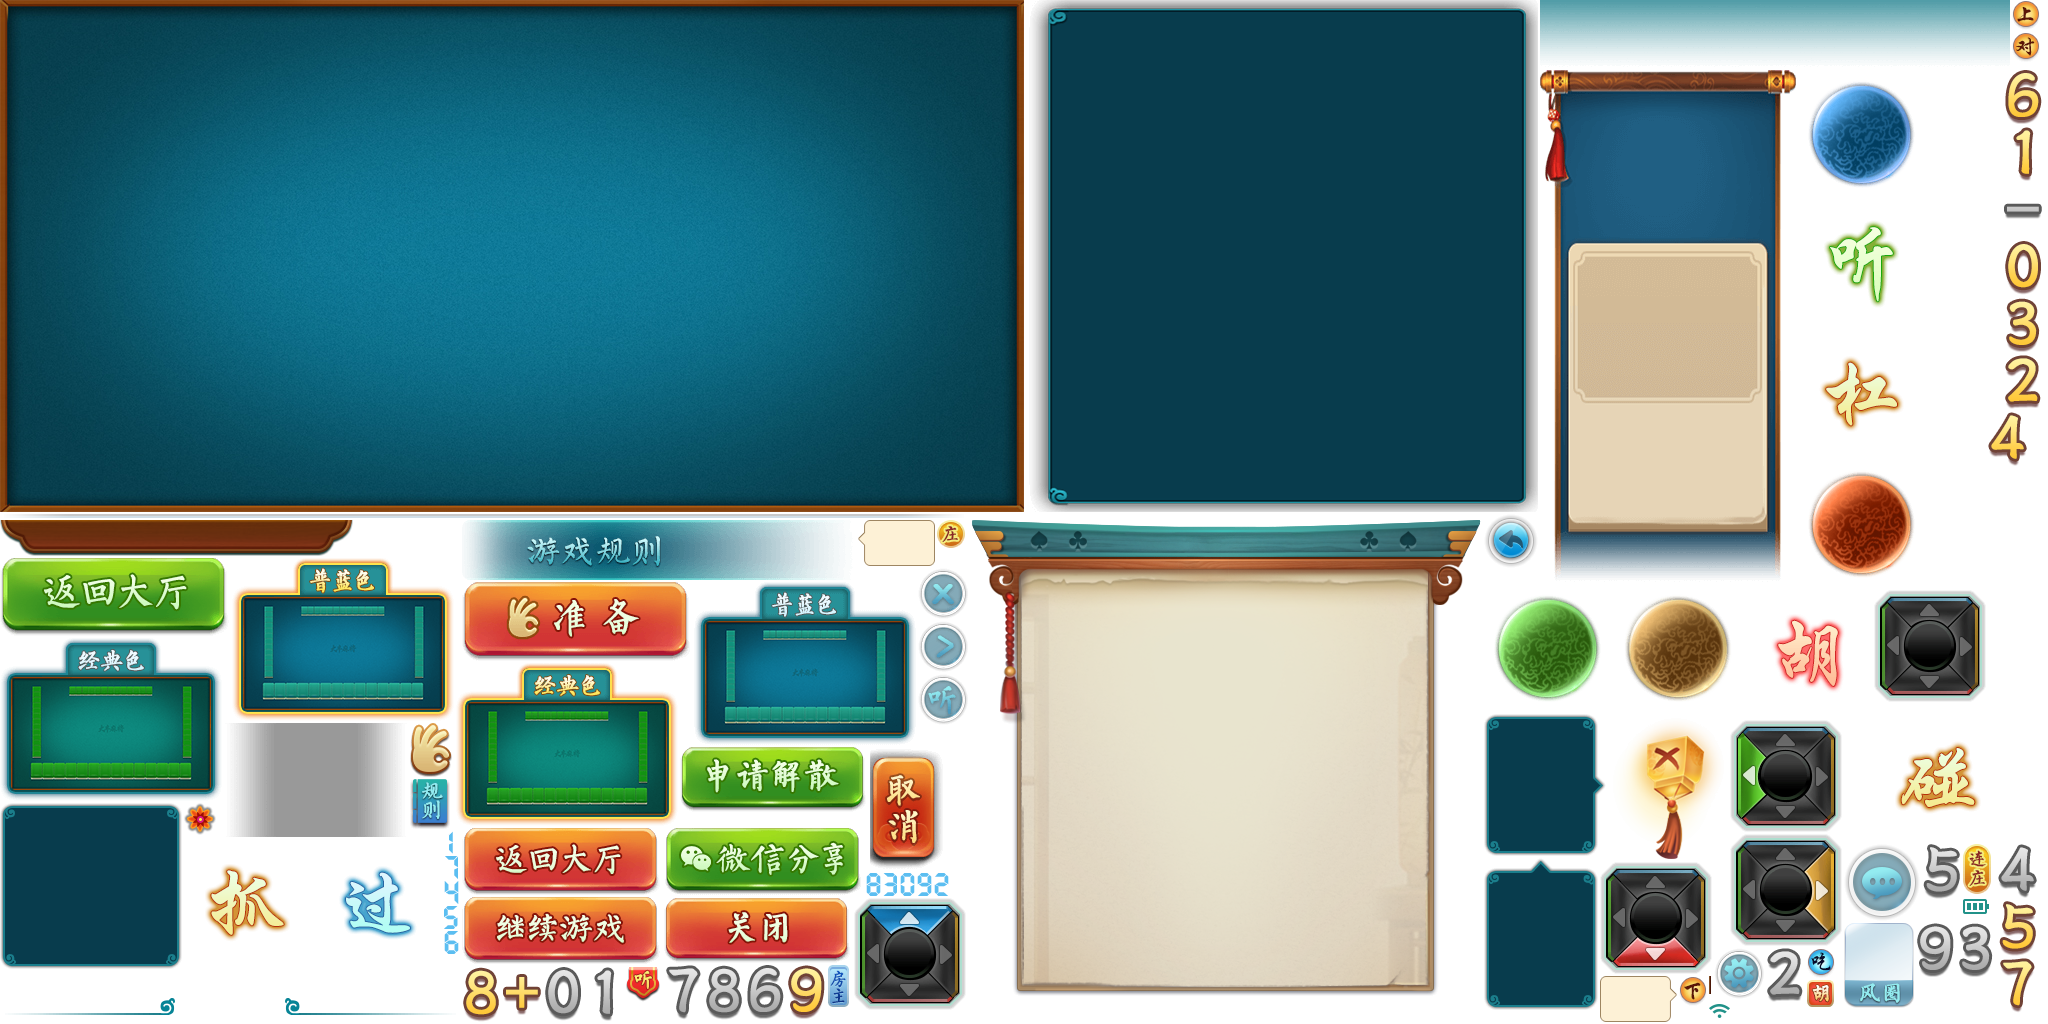
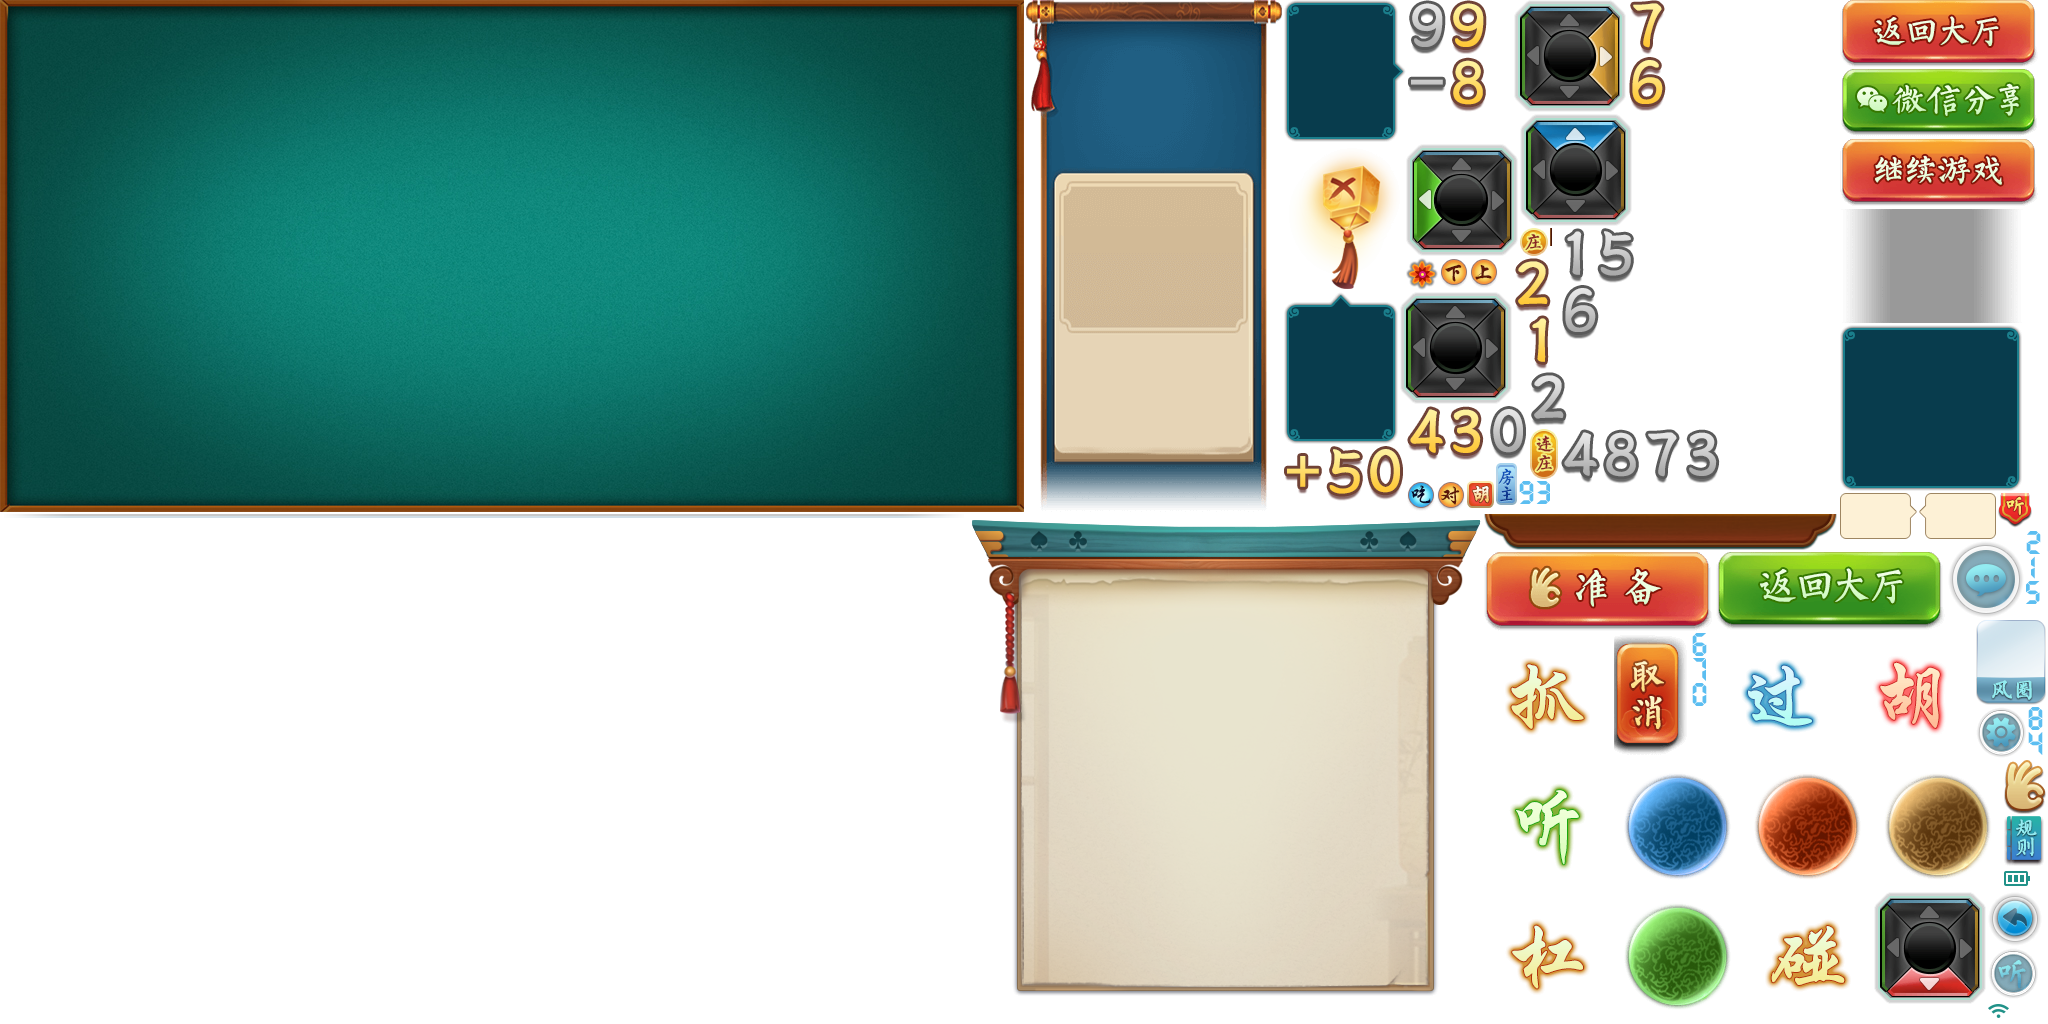
设置界面  搬到大厅

diff --git a/assets/Script/modules/gamea/RoomViewA.ts b/assets/Script/modules/gamea/RoomViewA.ts
@@ -1,12 +1,13 @@
 import { Logger } from "../lobby/lcore/LCoreExports";
 import { ChatView } from "../lobby/views/chat/ChatExports";
-import { DisbandViewA } from "./DisbandViewA";
+import { DisBandPlayerInfo, DisbandView } from "../lobby/views/disbandRoom/DisbandViewExports";
+import { RoomSettingView } from "../lobby/views/roomSetting/RoomSettingViewExports";
 import { GameRulesA } from "./GameRulesA";
+import { PlayerA } from "./PlayerA";
 import { PlayerViewA } from "./PlayerViewA";
 import { proto } from "./proto/protoGameA";
 import { RoomInterfaceA } from "./RoomInterfaceA";
 import { RoomRuleViewA } from "./RoomRuleViewA";
-import { SettingViewA } from "./SettingViewA";
 
 /**
  * 房间
@@ -160,17 +161,27 @@ export class RoomViewA {
     }
 
     public updateDisbandVoteView(msgDisbandNotify: proto.pokerface.MsgDisbandNotify): void {
-        //
+        let disbandView = this.component.getComponent(DisbandView);
 
-        let disbandView = this.component.getComponent(DisbandViewA);
+        const myPlayerInfo = this.room.getMyPlayerInfo();
+        const myInfo = new DisBandPlayerInfo(myPlayerInfo.userID, myPlayerInfo.chairID, myPlayerInfo.nick);
+        const players = this.room.getPlayers();
+
+        const playersInfo: DisBandPlayerInfo[] = [];
+        Object.keys(players).forEach((key: string) => {
+            const p = <PlayerA>players[key];
+            const playInfo = new DisBandPlayerInfo(p.userID, p.chairID, p.playerInfo.nick);
+            playersInfo.push(playInfo);
+
+        });
+
+        const load = this.room.getRoomHost().loader;
 
         if (disbandView === undefined || disbandView == null) {
-            disbandView = this.component.addComponent(DisbandViewA);
-            disbandView.saveRoomView(this.room, msgDisbandNotify);
-        } else {
-            disbandView.saveRoomView(this.room, msgDisbandNotify);
-            disbandView.updateView();
+            disbandView = this.component.addComponent(DisbandView);
         }
+
+        disbandView.saveRoomView(this.room, msgDisbandNotify, load, myInfo, playersInfo);
     }
 
     private onRoomRuleBtnClick(): void {
@@ -184,8 +195,8 @@ export class RoomViewA {
 
     private onSettingBtnClick(): void {
         // Logger.debug("onSettingBtnClick---------------");
-        const settingView = this.component.addComponent(SettingViewA);
-        settingView.showView(this.room);
+        const settingView = this.component.addComponent(RoomSettingView);
+        settingView.showView(this.room, this.room.getRoomHost().loader);
     }
 
     /**

diff --git a/assets/Script/modules/gamea/AgariIndexA.ts b/assets/Script/modules/gamea/AgariIndexA.ts
@@ -354,7 +354,7 @@ export namespace AgariIndexA {
 
     const extractCardsByRanks = (hands: number[], rankStart: number, rankStop: number, count: number): number[] => {
         const extract = [];
-        for (let rank = rankStart; rank < rankStop; rank++) {
+        for (let rank = rankStart; rank <= rankStop; rank++) {
             let ecount = 0;
             for (const h of hands) {
                 if (Math.floor(h / 4) === rank) {
@@ -682,15 +682,14 @@ export namespace AgariIndexA {
         resetSlots(hands);
         const flushLen = prev.cards.length;
         const bombCardRankID = Math.floor(prev.cards[0] / 4); // 最大的顺子牌rank
-        const seqLength = flushLen;
         let newBombSuitID = bombCardRankID + 1;
         const rightMost = Math.floor(pokerface.CardID.AH / 4); // AH 改为 R3H  20180201 mufan
-        while (newBombSuitID <= rightMost) {
-            const testBombRankID = newBombSuitID;
+        while (newBombSuitID < rightMost) {
+            // const testBombRankID = newBombSuitID;
             let found = true;
-            for (let i = 0; i < seqLength; i++) {
-                if (slots[testBombRankID - i + 2] < 1) {
-                    newBombSuitID = newBombSuitID + 1;
+            for (let i = 0; i < flushLen; i++) {
+                if (slots[newBombSuitID - i] < 1) {
+                    // newBombSuitID = newBombSuitID + 1;
                     found = false;
 
                     break;
@@ -700,12 +699,12 @@ export namespace AgariIndexA {
             if (found) {
                 const cardHand = new proto.pokerface.MsgCardHand();
                 cardHand.cardHandType = pokerfacerf.CardHandType.Flush;
-                const xcards = extractCardsByRanks(hands, testBombRankID - seqLength + 1, testBombRankID, 1);
+                const xcards = extractCardsByRanks(hands, newBombSuitID - flushLen + 1, newBombSuitID, 1);
                 cardHand.cards = xcards;
                 cardHands.push(cardHand);
 
-                newBombSuitID = newBombSuitID + 1;
             }
+            newBombSuitID++;
 
         }
 

diff --git a/assets/Script/modules/lobby/views/roomSetting/RoomSettingView.ts b/assets/Script/modules/lobby/views/roomSetting/RoomSettingView.ts
@@ -1,34 +1,34 @@
-import { Dialog } from "../lobby/lcore/LCoreExports";
-import { RoomInterfaceA } from "./RoomInterfaceA";
 
+import { Dialog, GResLoader } from "../../lcore/LCoreExports";
+
+export interface RoomInterface {
+    switchBg(agree: number): void;
+    onDissolveClicked(): void;
+}
 /**
  * 设置界面
  */
-export class SettingViewA extends cc.Component {
+export class RoomSettingView extends cc.Component {
 
     private view: fgui.GComponent;
     private eventTarget: cc.EventTarget;
 
-    private room: RoomInterfaceA;
+    private room: RoomInterface;
 
-    public showView(room: RoomInterfaceA): void {
+    public showView(room: RoomInterface, loader: GResLoader): void {
         this.room = room;
-        if (this.view !== null) {
+        if (this.view === null || this.view === undefined) {
             // this.room = room;
-            fgui.GRoot.inst.showPopup(this.view);
-            this.view.setPosition(0, 0);
-
+            loader.fguiAddPackage("lobby/fui_room_other_view/room_other_view");
+            this.view = fgui.UIPackage.createObject("room_other_view", "setting").asCom;
+            this.initView();
         }
+        fgui.GRoot.inst.showPopup(this.view);
+        this.view.setPosition(0, 0);
     }
 
     protected onLoad(): void {
-
         this.eventTarget = new cc.EventTarget();
-
-        const view = fgui.UIPackage.createObject("runfast", "setting").asCom;
-        this.view = view;
-
-        this.initView();
     }
 
     protected onDestroy(): void {

diff --git a/assets/Script/modules/gameb/RoomView.ts b/assets/Script/modules/gameb/RoomView.ts
@@ -1,13 +1,13 @@
 import { Logger } from "../lobby/lcore/LCoreExports";
 import { ChatView } from "../lobby/views/chat/ChatExports";
 import { DisBandPlayerInfo, DisbandView } from "../lobby/views/disbandRoom/DisbandViewExports";
+import { RoomSettingView } from "../lobby/views/roomSetting/RoomSettingViewExports";
 import { GameRules } from "./GameRules";
 import { Player } from "./Player";
 import { PlayerView } from "./PlayerView";
 import { proto } from "./proto/protoGame";
 import { RoomInterface, TingPai } from "./RoomInterface";
 import { RoomRuleView } from "./RoomRuleView";
-import { SettingView } from "./SettingView";
 import { TileImageMounter } from "./TileImageMounter";
 const mjproto = proto.mahjong;
 
@@ -309,8 +309,8 @@ export class RoomView {
 
     private onSettingBtnClick(): void {
         // Logger.debug("onSettingBtnClick---------------");
-        const settingView = this.component.addComponent(SettingView);
-        settingView.showView(this.room);
+        const settingView = this.component.addComponent(RoomSettingView);
+        settingView.showView(this.room, this.room.getRoomHost().loader);
     }
 
     /**

diff --git a/assets/Script/modules/lobby/views/disbandRoom/DisbandView.ts b/assets/Script/modules/lobby/views/disbandRoom/DisbandView.ts
@@ -60,8 +60,8 @@ export class DisbandView extends cc.Component {
         this.msgDisbandNotify = msgDisbandNotify;
 
         if (this.view === null || this.view === undefined) {
-            loader.fguiAddPackage("lobby/fui_disband_room/lobby_disband_room");
-            const view = fgui.UIPackage.createObject("lobby_disband_room", "disband_room").asCom;
+            loader.fguiAddPackage("lobby/fui_room_other_view/room_other_view");
+            const view = fgui.UIPackage.createObject("room_other_view", "disband_room").asCom;
             this.view = view;
             const win = new fgui.Window();
             win.contentPane = view;

diff --git a/assets/Script/modules/lobby/views/chat/ChatView.ts b/assets/Script/modules/lobby/views/chat/ChatView.ts
@@ -83,10 +83,9 @@ export class ChatView extends cc.Component {
 
             return;
         }
-
         loader.fguiAddPackage("lobby/fui_chat/lobby_chat");
-
         const view = fgui.UIPackage.createObject("lobby_chat", "chat").asCom;
+
         this.view = view;
 
         this.initView();

diff --git a/assets/Script/modules/lobby/views/roomSetting/RoomSettingViewExports.ts b/assets/Script/modules/lobby/views/roomSetting/RoomSettingViewExports.ts
@@ -1,0 +1,5 @@
+/**
+ * 导出
+ */
+
+export * from "./RoomSettingView";
